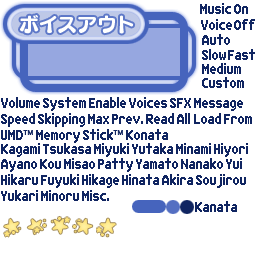
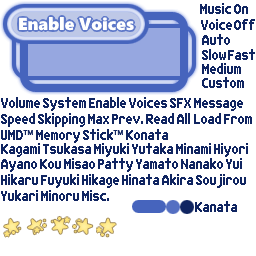
General menu graphics + Trading Card Shop screen

Changed region(s): [[0.0625, 0.0312, 0.5312, 0.1562]]

diff --git a/apps/RGT_RGO_Patch_Builder/src/build.c b/apps/RGT_RGO_Patch_Builder/src/build.c
@@ -17,11 +17,21 @@ typedef struct _image_replace_info
 const image_replace_info g_images_to_replace[] =
 {
 	{ "resources\\images\\2528_1.png", 2528, 1 },
+	{ "resources\\images\\2529_0.png", 2529, 0 },
+	{ "resources\\images\\2530_0.png", 2530, 0 },
 	{ "resources\\images\\2530_1.png", 2530, 1 },
+	{ "resources\\images\\2531_0.png", 2531, 0 },
 	{ "resources\\images\\2531_1.png", 2531, 1 },
+	{ "resources\\images\\2532_0.png", 2532, 0 },
 	{ "resources\\images\\2532_1.png", 2532, 1 },
+	{ "resources\\images\\2533_0.png", 2533, 0 },
+	{ "resources\\images\\2533_1.png", 2533, 1 },
+	{ "resources\\images\\2533_2.png", 2533, 2 },
 	{ "resources\\images\\2533_5.png", 2533, 5 },
+	{ "resources\\images\\2538_0.png", 2538, 0 },
+	{ "resources\\images\\2538_1.png", 2538, 1 },
 	{ "resources\\images\\2533_10.png", 2533, 10 },
+	{ "resources\\images\\2533_11.png", 2533, 11 },
 	{ "resources\\images\\2533_14.png", 2533, 14 },
 	{ "resources\\images\\2533_15.png", 2533, 15 },
 	{ "resources\\images\\2533_16.png", 2533, 16 },
